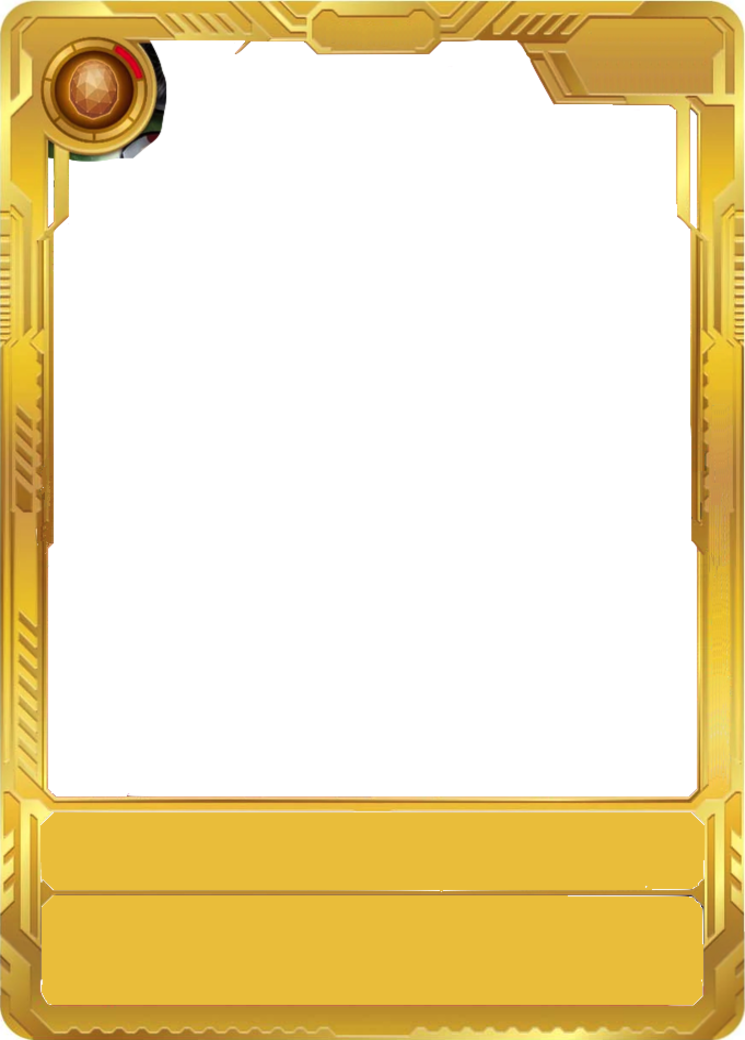
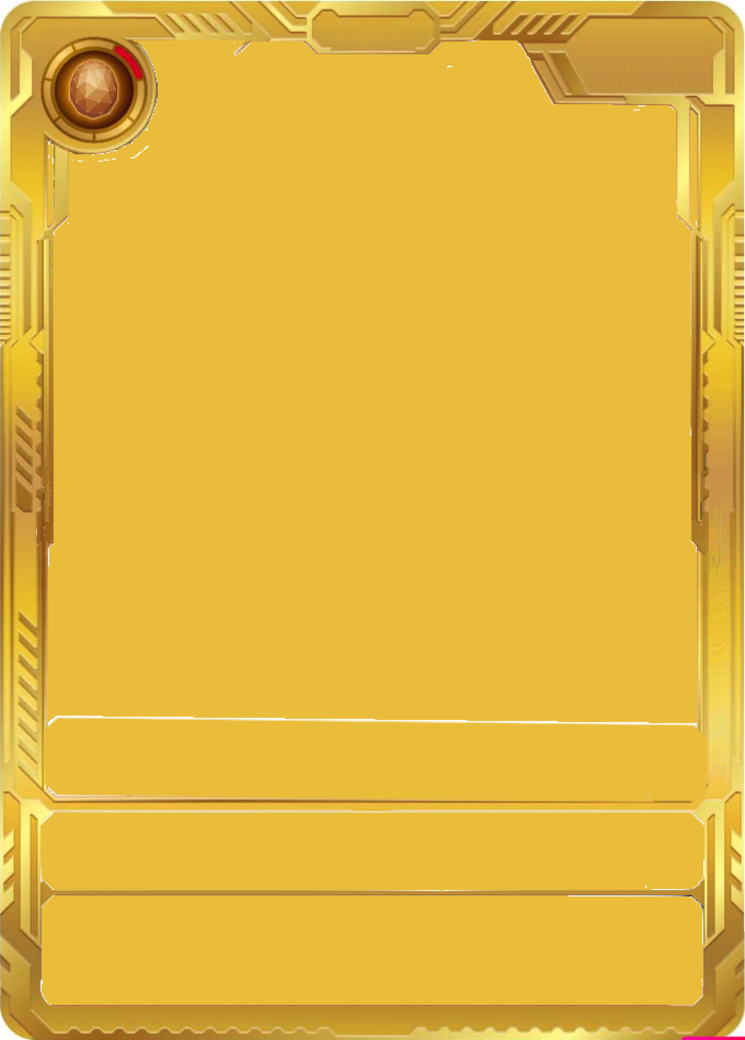
v0.8.44.1 gold foil border, also for duals

diff --git a/src/CustomCreator.js b/src/CustomCreator.js
@@ -61,7 +61,7 @@ import JSZip from 'jszip';
 import { saveAs } from 'file-saver';
 
 
-const version = "0.8.44.0"
+const version = "0.8.44.1"
 const latest = "addFoil now allows gold border"
 
 // version 0.8.44   addFoil now allows gold border
